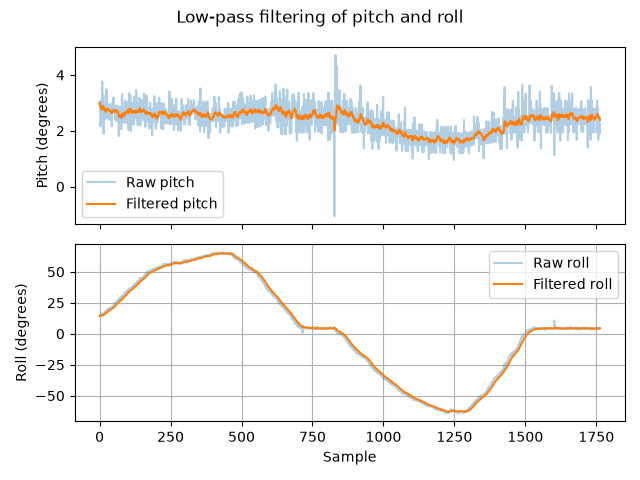
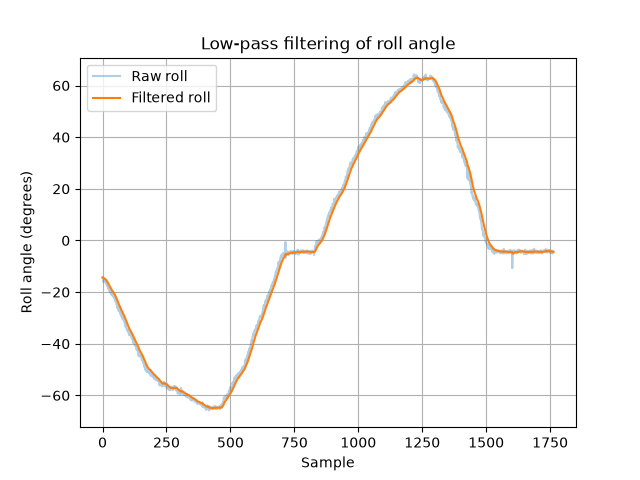
new corrected graphs added

diff --git a/idt_module_1_materials/exercise_imu/imu_exercise.py b/idt_module_1_materials/exercise_imu/imu_exercise.py
@@ -7,10 +7,10 @@
 ##### Insert initialize code below ###################
 
 ## Uncomment the file to read ##
-fileName = 'data/imu_razor_data_roll_65deg.txt' # Task 3.2.4: low-pass filtering
+#fileName = 'data/imu_razor_data_roll_65deg.txt' # Task 3.2.2: calculate roll angle
 #fileName = 'data/imu_razor_data_pitch_55deg.txt' # Task 3.2.1: calculate pitch angle
-#fileName = 'data/imu_razor_data_static.txt' # Task 3.2.3: accelerometer noise
-#fileName = 'imu_razor_data_yaw_90deg.txt'
+fileName = 'data/imu_razor_data_roll_65deg.txt' # Task 3.2.4: low-pass filtering
+#fileName = 'data/imu_razor_data_roll_65deg.txt' # Task 3.2.4: low-pass filtering
 
 ## IMU type
 #imuType = 'vectornav_vn100'
@@ -94,11 +94,9 @@ for line in f:
 	# gyro_y	Angular velocity measured about the y axis
 	# gyro_z	Angular velocity measured about the z axis
 
-	## Task 3.2.3: calculate pitch and roll from accelerometer values ##
+	## Task 3.2.4: low-pass filter pitch and roll angles ##
 	pitch = atan2 (acc_y, sqrt (acc_x**2 + acc_z**2))
-	roll = atan2 (acc_x, sqrt (acc_y**2 + acc_z**2))
-
-	# Task 3.2.4: first-order low-pass filter.
+	roll = atan2 (-acc_x, sqrt (acc_y**2 + acc_z**2))
 	if filteredPitch is None:
 		filteredPitch = pitch
 		filteredRoll = roll
@@ -118,18 +116,12 @@ f.close()
 
 # show the plot
 if showPlot == True:
-	fig, axes = plt.subplots(2, 1, sharex=True)
-	axes[0].plot(plotDataPitch, alpha=0.35, label='Raw pitch')
-	axes[0].plot(plotDataPitchFiltered, label='Filtered pitch')
-	axes[0].set_ylabel('Pitch (degrees)')
-	axes[0].legend()
-	axes[1].plot(plotDataRoll, alpha=0.35, label='Raw roll')
-	axes[1].plot(plotDataRollFiltered, label='Filtered roll')
-	axes[1].set_xlabel('Sample')
-	axes[1].set_ylabel('Roll (degrees)')
-	axes[1].legend()
-	fig.suptitle('Low-pass filtering of pitch and roll')
-	fig.tight_layout()
+	plt.plot(plotDataRoll, alpha=0.35, label='Raw roll')
+	plt.plot(plotDataRollFiltered, label='Filtered roll')
+	plt.xlabel('Sample')
+	plt.ylabel('Roll angle (degrees)')
+	plt.title('Low-pass filtering of roll angle')
+	plt.legend()
 	plt.grid(True)
 	plt.savefig('pics/imu_exercise_low_pass_filter_plot.png')
 	plt.show()
